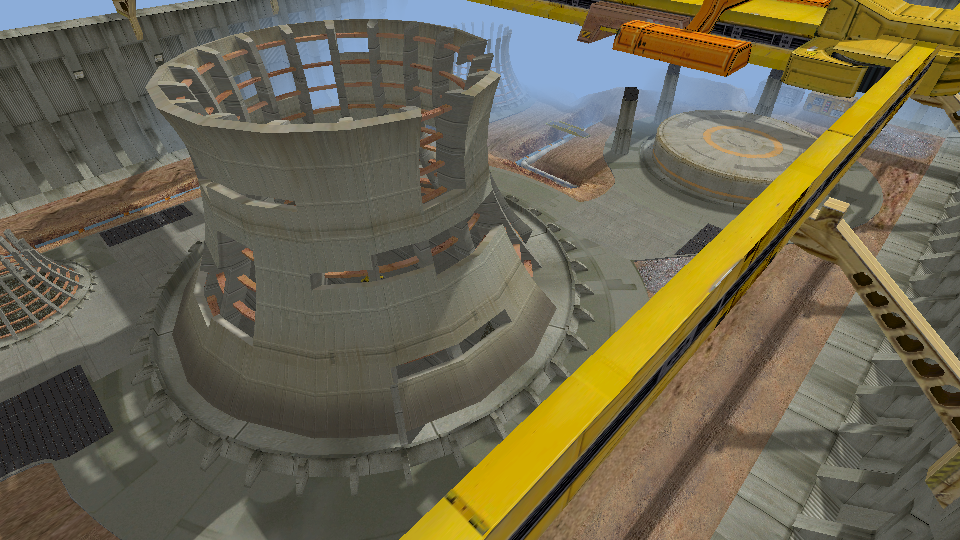
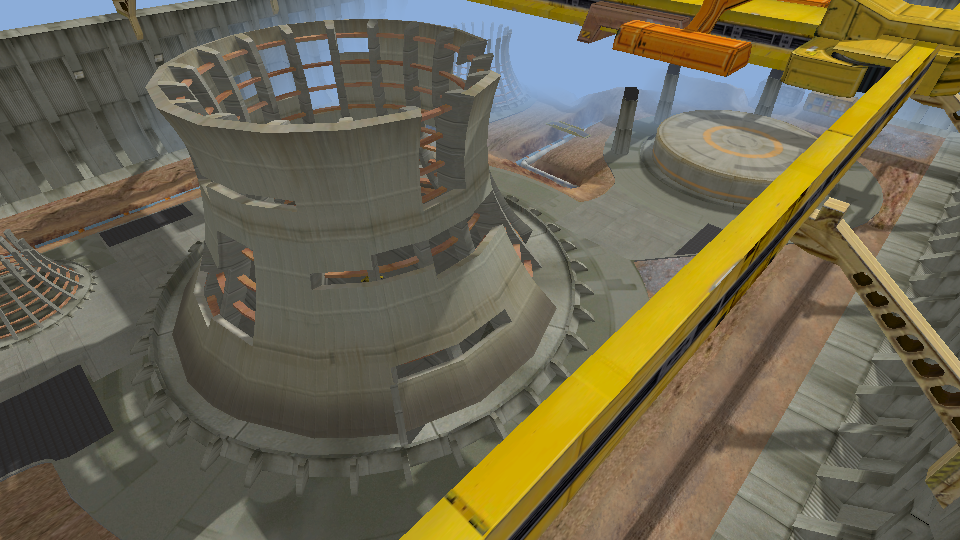
Single-mip BC1/BC2/BC3 textures are decoded to RGBA8 so the loader can build a mip chain; the power plant no longer shimmers or turns grainy with distance

diff --git a/demos/common/Bcn.h b/demos/common/Bcn.h
@@ -1,0 +1,147 @@
+#pragma once
+
+#include <stdint.h>
+#include <stddef.h>
+
+namespace zenapp
+{
+
+enum class BcnKind
+{
+    BC1,
+    BC2,
+    BC3
+};
+
+namespace bcn
+{
+
+inline void expand565(uint16_t color, uint8_t* out)
+{
+    const unsigned r = (color >> 11) & 0x1F;
+    const unsigned g = (color >> 5) & 0x3F;
+    const unsigned b = color & 0x1F;
+    out[0] = static_cast<uint8_t>((r << 3) | (r >> 2));
+    out[1] = static_cast<uint8_t>((g << 2) | (g >> 4));
+    out[2] = static_cast<uint8_t>((b << 3) | (b >> 2));
+}
+
+inline void colorBlock(const uint8_t* block, bool punchThrough, uint8_t texels[16][4])
+{
+    const uint16_t c0 = static_cast<uint16_t>(block[0] | (block[1] << 8));
+    const uint16_t c1 = static_cast<uint16_t>(block[2] | (block[3] << 8));
+    const uint32_t bits = static_cast<uint32_t>(block[4]) | (static_cast<uint32_t>(block[5]) << 8) |
+                          (static_cast<uint32_t>(block[6]) << 16) |
+                          (static_cast<uint32_t>(block[7]) << 24);
+
+    uint8_t palette[4][4];
+    expand565(c0, palette[0]);
+    expand565(c1, palette[1]);
+    palette[0][3] = 255;
+    palette[1][3] = 255;
+    if (!punchThrough || c0 > c1)
+    {
+        for (int i = 0; i < 3; ++i)
+        {
+            palette[2][i] = static_cast<uint8_t>((2 * palette[0][i] + palette[1][i]) / 3);
+            palette[3][i] = static_cast<uint8_t>((palette[0][i] + 2 * palette[1][i]) / 3);
+        }
+        palette[2][3] = 255;
+        palette[3][3] = 255;
+    }
+    else
+    {
+        for (int i = 0; i < 3; ++i)
+        {
+            palette[2][i] = static_cast<uint8_t>((palette[0][i] + palette[1][i]) / 2);
+            palette[3][i] = 0;
+        }
+        palette[2][3] = 255;
+        palette[3][3] = 0;
+    }
+
+    for (int i = 0; i < 16; ++i)
+    {
+        const uint32_t index = (bits >> (i * 2)) & 3u;
+        for (int c = 0; c < 4; ++c) texels[i][c] = palette[index][c];
+    }
+}
+
+inline void alphaExplicit(const uint8_t* block, uint8_t texels[16][4])
+{
+    for (int i = 0; i < 16; ++i)
+    {
+        const uint8_t nibble = (i & 1) ? static_cast<uint8_t>(block[i / 2] >> 4)
+                                       : static_cast<uint8_t>(block[i / 2] & 0x0F);
+        texels[i][3] = static_cast<uint8_t>((nibble << 4) | nibble);
+    }
+}
+
+inline void alphaInterpolated(const uint8_t* block, uint8_t texels[16][4])
+{
+    uint8_t alpha[8];
+    alpha[0] = block[0];
+    alpha[1] = block[1];
+    if (alpha[0] > alpha[1])
+    {
+        for (int i = 0; i < 6; ++i)
+            alpha[2 + i] = static_cast<uint8_t>(((6 - i) * alpha[0] + (1 + i) * alpha[1]) / 7);
+    }
+    else
+    {
+        for (int i = 0; i < 4; ++i)
+            alpha[2 + i] = static_cast<uint8_t>(((4 - i) * alpha[0] + (1 + i) * alpha[1]) / 5);
+        alpha[6] = 0;
+        alpha[7] = 255;
+    }
+    uint64_t bits = 0;
+    for (int i = 0; i < 6; ++i) bits |= static_cast<uint64_t>(block[2 + i]) << (i * 8);
+    for (int i = 0; i < 16; ++i) texels[i][3] = alpha[(bits >> (i * 3)) & 7u];
+}
+
+} // namespace bcn
+
+inline size_t bcnBlockBytes(BcnKind kind)
+{
+    return kind == BcnKind::BC1 ? 8u : 16u;
+}
+
+inline bool decodeBcn(BcnKind kind, const uint8_t* data, size_t size, unsigned width,
+        unsigned height, uint8_t* rgba)
+{
+    const unsigned blocksX = (width + 3) / 4;
+    const unsigned blocksY = (height + 3) / 4;
+    const size_t blockBytes = bcnBlockBytes(kind);
+    if (size < static_cast<size_t>(blocksX) * blocksY * blockBytes) return false;
+
+    for (unsigned by = 0; by < blocksY; ++by)
+    {
+        for (unsigned bx = 0; bx < blocksX; ++bx)
+        {
+            const uint8_t* block = data + (static_cast<size_t>(by) * blocksX + bx) * blockBytes;
+            uint8_t texels[16][4];
+            if (kind == BcnKind::BC1)
+                bcn::colorBlock(block, true, texels);
+            else
+            {
+                bcn::colorBlock(block + 8, false, texels);
+                if (kind == BcnKind::BC2)
+                    bcn::alphaExplicit(block, texels);
+                else
+                    bcn::alphaInterpolated(block, texels);
+            }
+            for (unsigned row = 0; row < 4 && by * 4 + row < height; ++row)
+            {
+                for (unsigned column = 0; column < 4 && bx * 4 + column < width; ++column)
+                {
+                    uint8_t* out = rgba + (static_cast<size_t>(by * 4 + row) * width +
+                                                  (bx * 4 + column)) * 4;
+                    for (int c = 0; c < 4; ++c) out[c] = texels[row * 4 + column][c];
+                }
+            }
+        }
+    }
+    return true;
+}
+
+} // namespace zenapp

diff --git a/demos/common/TextureLoader.h b/demos/common/TextureLoader.h
@@ -1,5 +1,6 @@
 #pragma once
 
+#include "Bcn.h"
 #include "Media.h"
 #include "prisma/rhi/Driver.h"
 #include "third_party/dds.h"
@@ -170,6 +171,35 @@ inline prisma::TextureHandle createTextureFromDds(prisma::Driver* driver, const 
         return prisma::TextureHandle();
 
     const dds::Header header = dds::read_header(data, size);
+
+    const bool isBc1 = format == prisma::TextureFormat::BC1 || format == prisma::TextureFormat::BC1Srgb;
+    const bool isBc2 = format == prisma::TextureFormat::BC2 || format == prisma::TextureFormat::BC2Srgb;
+    const bool isBc3 = format == prisma::TextureFormat::BC3 || format == prisma::TextureFormat::BC3Srgb;
+    if (generateMips && info.mipLevels == 1 && info.layers == 1 &&
+            info.type == prisma::TextureType::Texture2D && (isBc1 || isBc2 || isBc3))
+    {
+        const bool srgbFormat = format == prisma::TextureFormat::BC1Srgb ||
+                                format == prisma::TextureFormat::BC2Srgb ||
+                                format == prisma::TextureFormat::BC3Srgb;
+        ct::Vector<unsigned char> pixels;
+        pixels.resize(static_cast<size_t>(info.width) * info.height * 4);
+        if (decodeBcn(isBc1 ? BcnKind::BC1 : isBc2 ? BcnKind::BC2 : BcnKind::BC3,
+                    data + header.mip_offset(0, 0), static_cast<size_t>(header.mip_size(0)),
+                    info.width, info.height, pixels.data()))
+        {
+            prisma::TextureDesc decoded;
+            decoded.format = srgbFormat ? prisma::TextureFormat::RGBA8Srgb
+                                        : prisma::TextureFormat::RGBA8;
+            decoded.width = info.width;
+            decoded.height = info.height;
+            decoded.mipLevels = 0;
+            decoded.generateMipmaps = true;
+            decoded.data = pixels.data();
+            decoded.debugName = name;
+            return driver->createTexture(decoded);
+        }
+    }
+
     prisma::TextureDesc desc;
     desc.type = info.type;
     desc.format = format;
